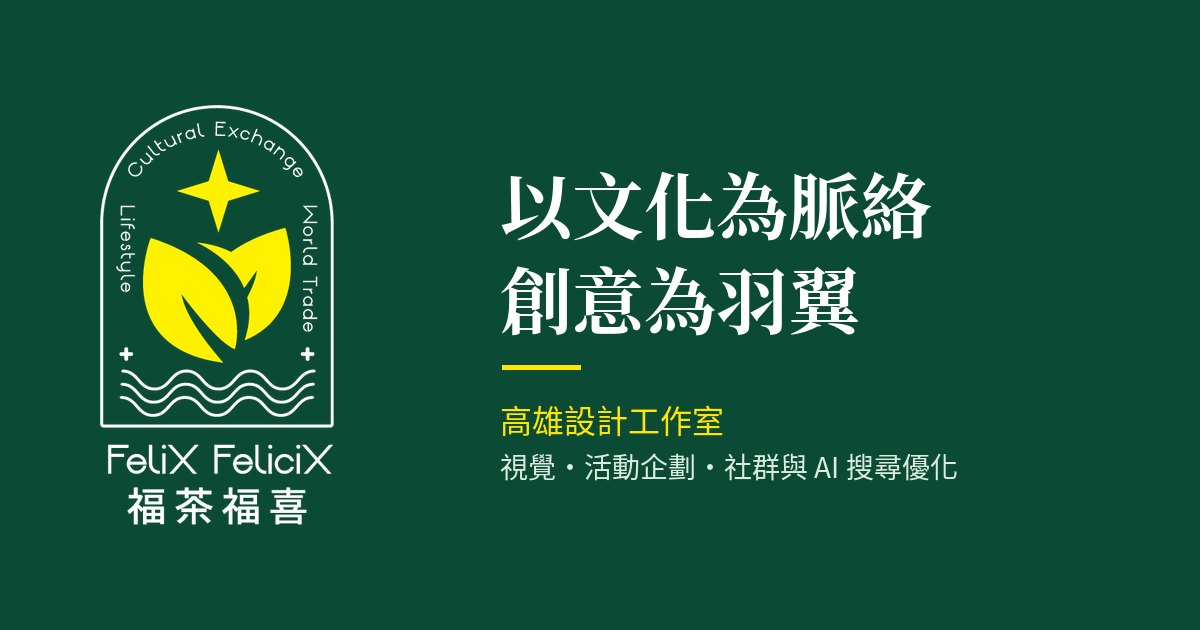
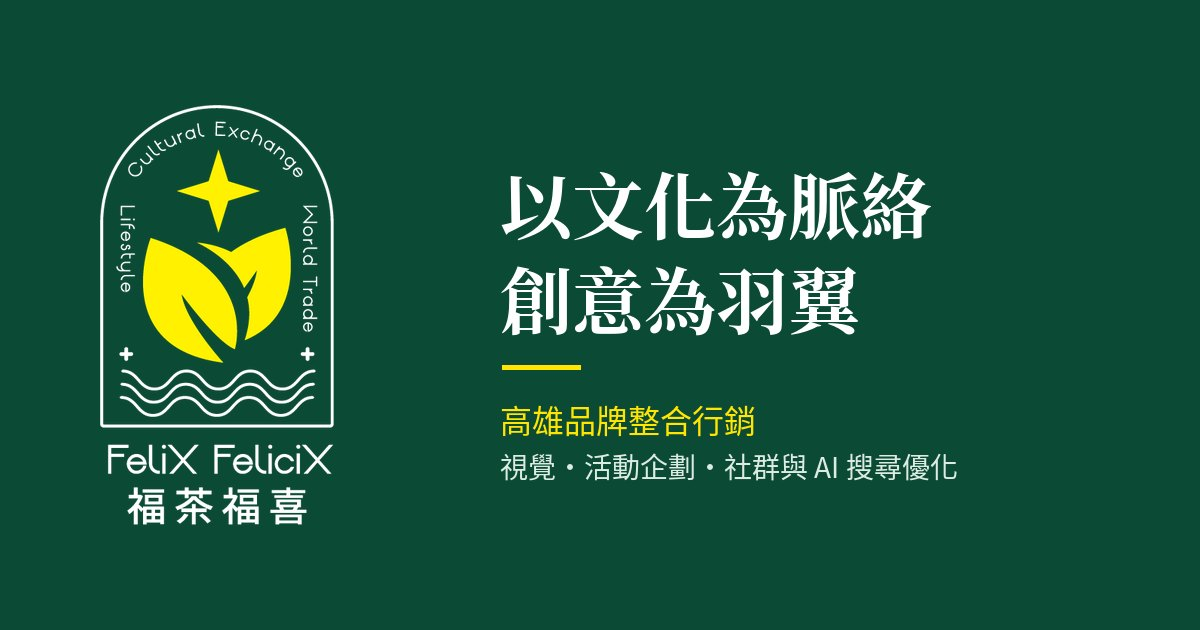
SEO: reposition from 設計工作室 to 高雄行銷公司 / 品牌整合行銷

Changed region(s): [[0.4625, 0.6333, 0.6475, 0.6937]]

diff --git a/index.html b/index.html
@@ -3,8 +3,8 @@
 <head>
 <meta charset="UTF-8">
 <meta name="viewport" content="width=device-width,initial-scale=1">
-<title>福茶福喜 FeliX FeliciX｜高雄設計工作室・主視覺、活動企劃、社群與 AI 搜尋優化</title>
-<meta name="description" content="福茶福喜 FeliX FeliciX 是高雄設計工作室，提供主視覺與品牌視覺設計、展場與活動企劃（演唱會、見面會、市集）、社群經營與 AI 搜尋優化（GEO／AEO），連結台灣在地文化與南美洲、美國等國際市場。">
+<title>福茶福喜 FeliX FeliciX｜高雄行銷公司・品牌視覺、活動企劃、社群與 AI 搜尋優化</title>
+<meta name="description" content="福茶福喜 FeliX FeliciX 是高雄的品牌整合行銷團隊，從視覺設計、活動企劃（演唱會、見面會、市集）到社群經營與 AI 搜尋優化（GEO／AEO）一條龍整合，連結台灣在地文化與南美洲、美國等國際市場。">
 <link rel="canonical" href="https://kazumi-work.github.io/felix-felicix/">
 <meta name="robots" content="index,follow,max-image-preview:large">
 <meta name="author" content="福茶福喜 FeliX FeliciX">
@@ -13,12 +13,12 @@
 <meta property="og:locale" content="zh_TW">
 <meta property="og:site_name" content="福茶福喜 FeliX FeliciX">
 <meta property="og:title" content="福茶福喜 FeliX FeliciX｜以文化為脈絡，創意為羽翼">
-<meta property="og:description" content="福茶福喜 FeliX FeliciX 是高雄設計工作室，提供主視覺與品牌視覺設計、展場與活動企劃（演唱會、見面會、市集）、社群經營與 AI 搜尋優化（GEO／AEO），連結台灣在地文化與南美洲、美國等國際市場。">
+<meta property="og:description" content="福茶福喜 FeliX FeliciX 是高雄的品牌整合行銷團隊，從視覺設計、活動企劃（演唱會、見面會、市集）到社群經營與 AI 搜尋優化（GEO／AEO）一條龍整合，連結台灣在地文化與南美洲、美國等國際市場。">
 <meta property="og:url" content="https://kazumi-work.github.io/felix-felicix/">
-<meta property="og:image" content="https://kazumi-work.github.io/felix-felicix/og.jpg">
+<meta property="og:image" content="https://kazumi-work.github.io/felix-felicix/og.jpg?v=2">
 <meta property="og:image:width" content="1200"><meta property="og:image:height" content="630">
 <meta name="twitter:card" content="summary_large_image">
-<script type="application/ld+json">{"@context": "https://schema.org", "@graph": [{"@type": "ProfessionalService", "@id": "https://kazumi-work.github.io/felix-felicix/#org", "name": "福茶福喜", "alternateName": ["FeliX FeliciX", "福茶福喜行"], "url": "https://kazumi-work.github.io/felix-felicix/", "logo": "https://kazumi-work.github.io/felix-felicix/logo.png", "image": "https://kazumi-work.github.io/felix-felicix/og.jpg", "description": "福茶福喜 FeliX FeliciX 是高雄設計工作室，提供主視覺與品牌視覺設計、展場與活動企劃（演唱會、見面會、市集）、社群經營與 AI 搜尋優化（GEO／AEO），連結台灣在地文化與南美洲、美國等國際市場。", "slogan": "以文化為脈絡，創意為羽翼", "email": "kazumiwolf31@gmail.com", "telephone": "+886-952-529-150", "address": {"@type": "PostalAddress", "streetAddress": "建國四路1之2號", "addressLocality": "鹽埕區", "addressRegion": "高雄市", "addressCountry": "TW"}, "areaServed": [{"@type": "Country", "name": "Taiwan"}, {"@type": "Place", "name": "South America"}, {"@type": "Country", "name": "United States"}], "knowsAbout": ["主視覺設計", "品牌識別", "展場設計", "活動企劃", "演唱會", "見面會", "市集", "社群經營", "短影音", "GEO 生成式引擎優化", "AEO 答案引擎優化", "原住民族文化"], "hasOfferCatalog": {"@type": "OfferCatalog", "name": "營業項目", "itemListElement": [{"@type": "Offer", "itemOffered": {"@type": "Service", "name": "視覺設計", "description": "主視覺、標準字、海報文宣、配色系統"}}, {"@type": "Offer", "itemOffered": {"@type": "Service", "name": "多媒體視覺設計", "description": "品牌影片、Podcast 視覺、直播包裝、賀卡"}}, {"@type": "Offer", "itemOffered": {"@type": "Service", "name": "商品／製作物設計", "description": "桌曆、貼紙、T 恤、活動周邊與宣傳物"}}, {"@type": "Offer", "itemOffered": {"@type": "Service", "name": "展覽整體設計", "description": "展場規劃、背板輸出、燈箱、車體與包柱廣告"}}, {"@type": "Offer", "itemOffered": {"@type": "Service", "name": "社群經營與 AI 搜尋優化", "description": "社群貼文、短影音、GEO／AEO 內容優化"}}, {"@type": "Offer", "itemOffered": {"@type": "Service", "name": "品牌企劃", "description": "品牌定位、識別規劃、傳播策略"}}, {"@type": "Offer", "itemOffered": {"@type": "Service", "name": "文案撰稿", "description": "社群文案、部落格長文、品牌故事、文化專文"}}, {"@type": "Offer", "itemOffered": {"@type": "Service", "name": "活動策劃", "description": "演唱會、見面會、市集、論壇、現場執行"}}, {"@type": "Offer", "itemOffered": {"@type": "Service", "name": "多元化交流", "description": "原住民族文化、地方創生、國際市場合作"}}]}}, {"@type": "WebSite", "@id": "https://kazumi-work.github.io/felix-felicix/#site", "url": "https://kazumi-work.github.io/felix-felicix/", "name": "福茶福喜 FeliX FeliciX", "inLanguage": "zh-Hant-TW", "publisher": {"@id": "https://kazumi-work.github.io/felix-felicix/#org"}}]}</script>
+<script type="application/ld+json">{"@context": "https://schema.org", "@graph": [{"@type": "ProfessionalService", "@id": "https://kazumi-work.github.io/felix-felicix/#org", "name": "福茶福喜", "alternateName": ["FeliX FeliciX", "福茶福喜行"], "url": "https://kazumi-work.github.io/felix-felicix/", "logo": "https://kazumi-work.github.io/felix-felicix/logo.png", "image": "https://kazumi-work.github.io/felix-felicix/og.jpg?v=2", "description": "福茶福喜 FeliX FeliciX 是高雄的品牌整合行銷團隊，從視覺設計、活動企劃（演唱會、見面會、市集）到社群經營與 AI 搜尋優化（GEO／AEO）一條龍整合，連結台灣在地文化與南美洲、美國等國際市場。", "slogan": "以文化為脈絡，創意為羽翼", "email": "kazumiwolf31@gmail.com", "telephone": "+886-952-529-150", "address": {"@type": "PostalAddress", "streetAddress": "建國四路1之2號", "addressLocality": "鹽埕區", "addressRegion": "高雄市", "addressCountry": "TW"}, "areaServed": [{"@type": "Country", "name": "Taiwan"}, {"@type": "Place", "name": "South America"}, {"@type": "Country", "name": "United States"}], "knowsAbout": ["主視覺設計", "品牌識別", "展場設計", "活動企劃", "演唱會", "見面會", "市集", "社群經營", "短影音", "GEO 生成式引擎優化", "AEO 答案引擎優化", "原住民族文化"], "hasOfferCatalog": {"@type": "OfferCatalog", "name": "營業項目", "itemListElement": [{"@type": "Offer", "itemOffered": {"@type": "Service", "name": "視覺設計", "description": "主視覺、標準字、海報文宣、配色系統"}}, {"@type": "Offer", "itemOffered": {"@type": "Service", "name": "多媒體視覺設計", "description": "品牌影片、Podcast 視覺、直播包裝、賀卡"}}, {"@type": "Offer", "itemOffered": {"@type": "Service", "name": "商品／製作物設計", "description": "桌曆、貼紙、T 恤、活動周邊與宣傳物"}}, {"@type": "Offer", "itemOffered": {"@type": "Service", "name": "展覽整體設計", "description": "展場規劃、背板輸出、燈箱、車體與包柱廣告"}}, {"@type": "Offer", "itemOffered": {"@type": "Service", "name": "社群經營與 AI 搜尋優化", "description": "社群貼文、短影音、GEO／AEO 內容優化"}}, {"@type": "Offer", "itemOffered": {"@type": "Service", "name": "品牌企劃", "description": "品牌定位、識別規劃、傳播策略"}}, {"@type": "Offer", "itemOffered": {"@type": "Service", "name": "文案撰稿", "description": "社群文案、部落格長文、品牌故事、文化專文"}}, {"@type": "Offer", "itemOffered": {"@type": "Service", "name": "活動策劃", "description": "演唱會、見面會、市集、論壇、現場執行"}}, {"@type": "Offer", "itemOffered": {"@type": "Service", "name": "多元化交流", "description": "原住民族文化、地方創生、國際市場合作"}}]}}, {"@type": "WebSite", "@id": "https://kazumi-work.github.io/felix-felicix/#site", "url": "https://kazumi-work.github.io/felix-felicix/", "name": "福茶福喜 FeliX FeliciX", "inLanguage": "zh-Hant-TW", "publisher": {"@id": "https://kazumi-work.github.io/felix-felicix/#org"}}]}</script>
 <link rel="icon" href="logo.png">
 <link rel="preload" as="image" href="logo.png">
 <link rel="preconnect" href="https://fonts.googleapis.com">
@@ -223,7 +223,7 @@ footer .fs{font-size:.8rem;opacity:.7;letter-spacing:.05em}
 
 <main id="main">
 <div class="hero">
- <img src="logo.png?v=20261001b" alt="福茶福喜 FeliX FeliciX 高雄設計工作室標誌" class="logo seq" width="140" height="140">
+ <img src="logo.png?v=20261001b" alt="福茶福喜 FeliX FeliciX 高雄品牌行銷標誌" class="logo seq" width="140" height="140">
  <p class="ring seq">Cultural Exchange ・ Lifestyle ・ World Trade</p>
  <h1 class="serif"><span class="h1wrap"><span>以文化為脈絡</span></span><span class="h1wrap"><span>創意為羽翼</span></span></h1>
  <p class="lead seq">設計的吟唱者，故事的雕琢者，文化的紡織者。<br>描繪品牌的靈魂圖景，讓每一次合作都成為令人難忘的美學體驗。</p>
